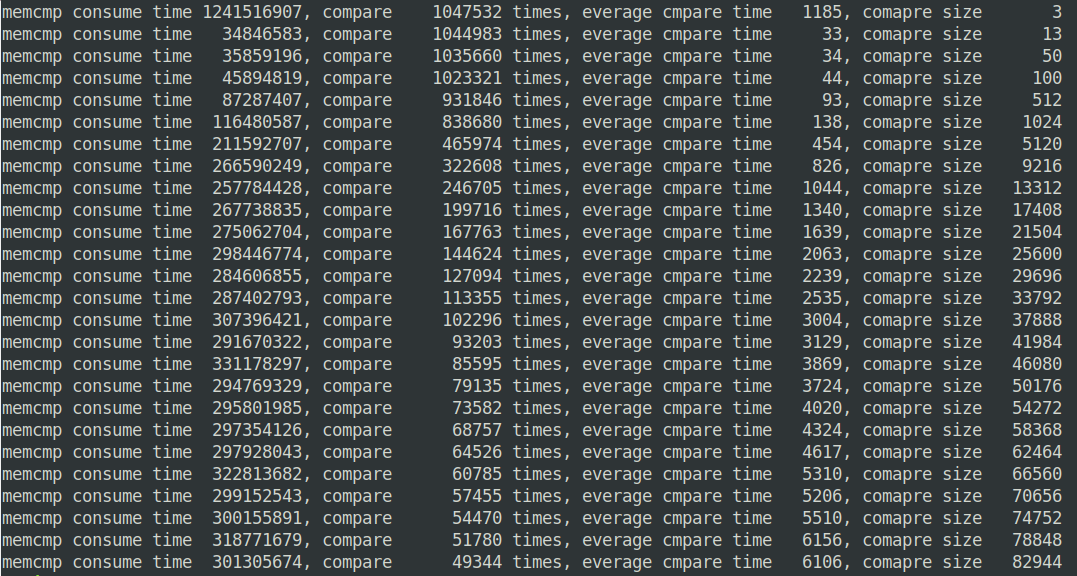
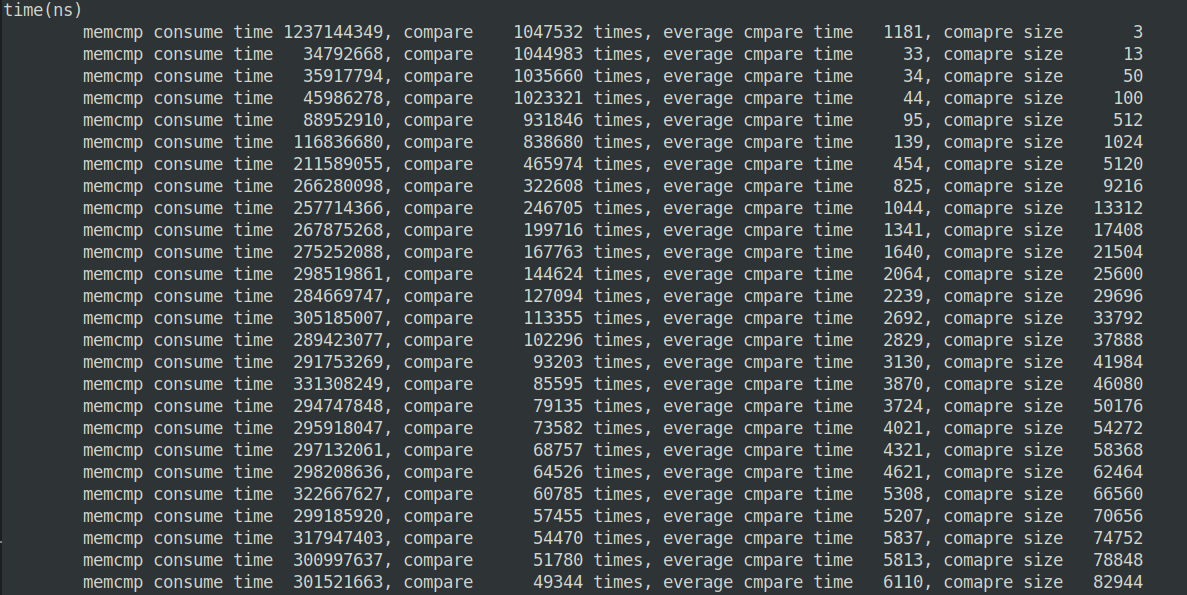
Add larger compare result

diff --git a/memcmpGlibcASMTester.c b/memcmpGlibcASMTester.c
@@ -14,7 +14,7 @@
 //536870912       //512M
 //1073741824      //1G
 #define memSize 4294967296      //4G
-
+//#define memSize 687194767360    //10G 
 static long get_nanos() {
     struct timespec ts;
     timespec_get(&ts, TIME_UTC);
@@ -34,83 +34,42 @@ int main(void) {
 	unsigned long long timeBegin, timeEnd;
     struct stat st;
     unsigned long tail;
-    int cpySize[10] = {3,13,50,100,512,1024,2048,4096,4099,6144};
-//    int cpySize[1] = {8192};
-    pageSize = getpagesize();
-
-    fd = open("./target.txt", O_RDWR);
-    if(fd<0){
-        printf("Open file error\n");
-        exit(-1);
+    int cpySize[26] = {3,13,50,100,512,1024};
+    for(int i=6;i<26;i++){
+        cpySize[i] = cpySize[i-1]+4096;
     }
-    fstat(fd, &st);
-    filesize = st.st_size;
-
-//    src = mmap(NULL, filesize, PROT_READ | PROT_WRITE,
-//                   MAP_PRIVATE, fd, 0);
-//    if (src == MAP_FAILED)
-//        errExit("mmap\n");
+    pageSize = getpagesize();
 
     src = calloc(1, memSize);
     if (src <0)
         errExit("malloc\n");
-    tail = (unsigned long)src + memSize - 6245;
+    tail = (unsigned long)src + memSize - 6245 - cpySize[25];
 
     dest = calloc(1,  memSize);
     if (dest <0)
         errExit("malloc\n");
 
-    for(int j=0;j<10;j++){
+    printf("time(ns)\n");
+    for(int j=0;j<26;j++){
         int cmpSize = cpySize[j];
-//        int cmpTime = 20<(cmpSize/10)?(cmpSize/10):20;
-        int r;
         counter = 0;
     	timeBegin = get_nanos();
         destTmp = dest;
         srcTmp = src;
-//        srandom(timeBegin);
-//    	for(int i=0;i<cmpTime;i++){
-    	for(;(unsigned long)srcTmp<=tail;destTmp+=6245,srcTmp+=6245){
-//            r = abs(random())%(cmpSize-1);
+    	for(;(unsigned long)srcTmp<=tail;
+               destTmp = destTmp+cmpSize+4097,srcTmp=srcTmp+cmpSize+4097){
             int res = memcmp_avx2_asm(destTmp,srcTmp,cmpSize, &diffPos);
             if(res!=0){
-                printf("cmpSize:%d\n", r);
+                printf("cmp different, cmpSize:%d\n", cmpSize);
             }
     		counter++;
     	}
     	timeEnd = get_nanos();
-    	printf("memcmp consume time %10lld, ", timeEnd-timeBegin);
-    	printf("compare %6d times, ", counter);
-    	printf("everage cmpare time %4lld, ", (timeEnd-timeBegin)/counter);
-    	printf("comapre size %5d\n", cmpSize);
+    	printf("\tmemcmp consume time %10lld, ", timeEnd-timeBegin);
+    	printf("compare %10d times, ", counter);
+    	printf("everage cmpare time %6lld, ", (timeEnd-timeBegin)/counter);
+    	printf("comapre size %7d\n", cmpSize);
     }
-
-//    for(int j=0;j<9;j++){
-//        int cmpSize = cpySize[j];
-////        int cmpSize = 512;
-//        int cmpTime = 20<(cmpSize/10)?(cmpSize/10):20;
-//        int r;
-//        counter = 0;
-//    	timeBegin = get_nanos();
-//        srandom(timeBegin);
-//    	for(int i=0;i<cmpTime;i++){
-//            r = random()%(cmpSize-1);
-////            r = 358;
-//            *(dest+r) = 1;
-////            printf("dest:%p, src:%p, cmpSize:%d, set Pos:%p\n", 
-////                dest, src, cmpSize, dest+r);
-//            int res = memcmp_avx2_asm(dest,src,cmpSize, &diffPos);
-//            if(res==0 || (diffPos-dest)!=r){
-//                printf("res:%d, retPos:%p, dest:%p, cmpSize:%d, set Pos:%d, current diff:%ld\n", 
-//                    res, diffPos, dest, cmpSize, r, diffPos-dest);
-//            }
-//            *(dest+r) = 0;
-//    		counter++;
-//    	}
-//    	timeEnd = get_nanos();
-//    	printf("memcmp time %ld, compare %d times, everage cmpare time %ld, comapre size %d\n",
-//    			timeEnd-timeBegin, counter, (timeEnd-timeBegin)/counter, cmpSize);
-//    }
 
     return 0;
 }
